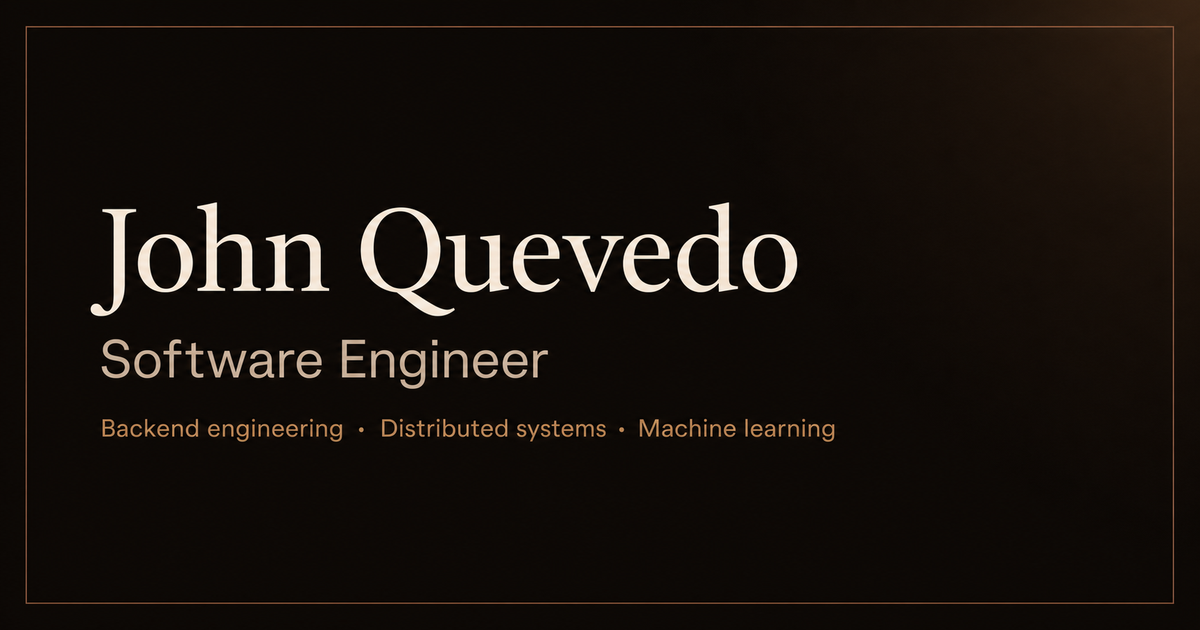
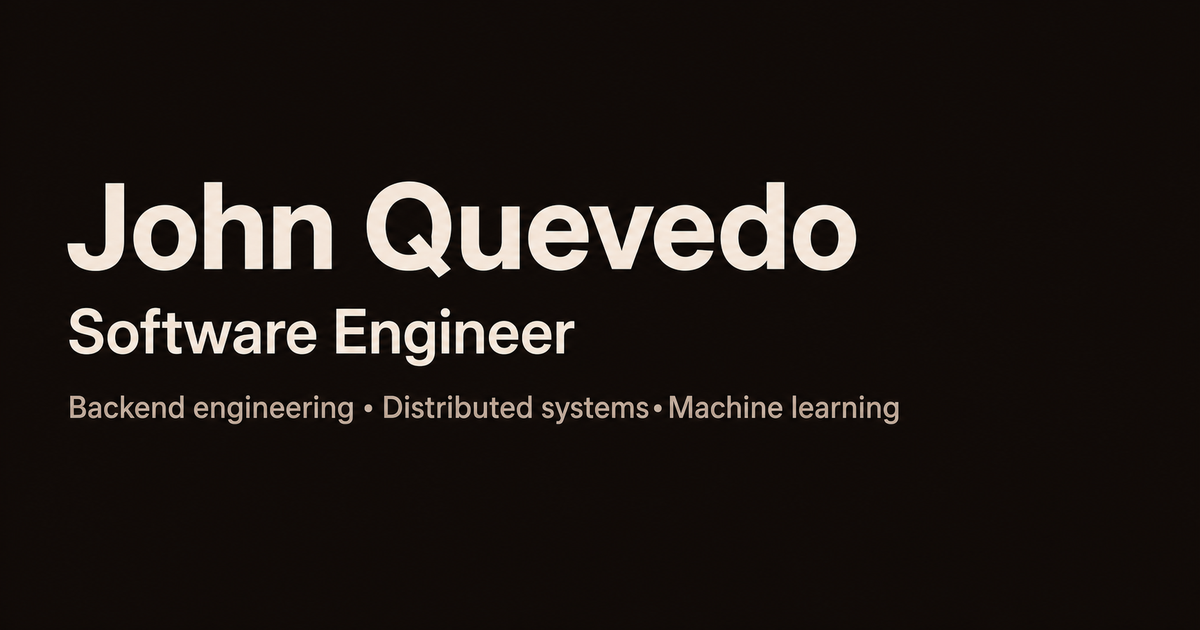
Remove gradients and gold accents

Changed region(s): [[0.0308, 0.2714, 0.7708, 0.6937], [0.0308, 0.0, 1.0, 0.181], [0.0308, 0.9349, 0.9867, 0.9651]]

diff --git a/app/globals.css b/app/globals.css
@@ -6,9 +6,9 @@
   --chocolate: #150f0c;
   --deep-chocolate: #100a08;
   --cocoa: #c3ac9b;
-  --milk: #b67a4d;
-  --sand: #4a3428;
-  --line: #4a3428;
+  --milk: #c3ac9b;
+  --sand: #201612;
+  --line: rgba(244, 231, 220, 0.14);
   --shadow: rgba(0, 0, 0, 0.36);
 }
 
@@ -22,9 +22,7 @@ html {
 
 body {
   margin: 0;
-  background:
-    radial-gradient(circle at top right, rgba(182, 122, 77, 0.12), transparent 45%),
-    var(--chocolate);
+  background: var(--chocolate);
   color: var(--cream);
   font-family:
     "Helvetica Neue",
@@ -216,20 +214,12 @@ p {
   box-shadow: 0 28px 70px var(--shadow);
 }
 
-.portrait-frame::after {
-  position: absolute;
-  inset: 0;
-  background: linear-gradient(to top, rgba(39, 20, 14, 0.16), transparent 30%);
-  content: "";
-  pointer-events: none;
-}
-
 .portrait-frame img {
   width: 100%;
   height: 100%;
   object-fit: cover;
   object-position: 50% 45%;
-  filter: saturate(0.82) sepia(0.08);
+  filter: saturate(0.9);
   transition: transform 600ms cubic-bezier(0.2, 0.8, 0.2, 1);
 }
 

diff --git a/app/work/page.tsx b/app/work/page.tsx
@@ -118,10 +118,12 @@ export default function WorkPage() {
                 <p>June 2026 to present</p>
               </div>
               <p>
-                Designed a parallel graph algorithm that updates clique counts
-                after batches of edge changes. Optimized work partitioning for
-                up to a 50.8x speedup on 64 cores and resolved a concurrency
-                race through systematic correctness audits.
+                Designed and implemented a novel parallel graph algorithm in
+                C++ that updates clique counts after batches of edge insertions
+                and deletions, avoiding a full recount after each batch.
+                Optimized clique-counting routines through parallel work
+                partitioning, achieving up to a 50.8x speedup on 64 cores over
+                single-threaded execution.
               </p>
             </article>
           </div>

diff --git a/app/page.tsx b/app/page.tsx
@@ -54,9 +54,9 @@ export default function Home() {
               <p className="current-place">Yale University</p>
               <h2>Algorithms Research Intern</h2>
               <p>
-                Designing and implementing parallel graph algorithms for
-                dynamic clique counting, with an emphasis on correctness and
-                multicore performance.
+                Designed and implemented a novel parallel graph algorithm in
+                C++ that updates clique counts after batches of edge insertions
+                and deletions, avoiding a full recount after each batch.
               </p>
             </article>
           </div>
